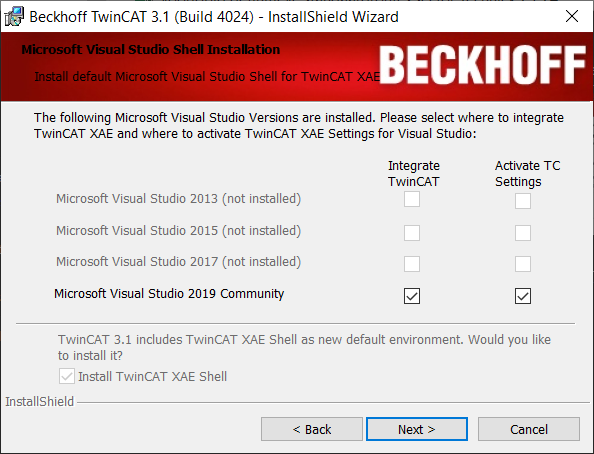
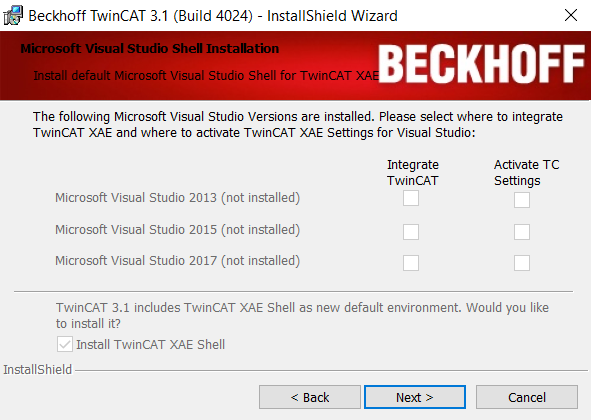
modify step 5

diff --git a/src/step_5.md b/src/step_5.md
@@ -1,4 +1,4 @@
-# integrate into MSVC 2019
+# Do not integrate into MSVC 20xx
 ![Step 5](./step_5.png)
 
-If the option is available to you, you can decide to not install `TwinCAT XAE Shell`. `XAE Shell` has been built on MSVS 2019 so you'll have pretty much the same user experience. I feel MSVS with integration is a bit faster during startup. YMMV.
+Make sure to install `TwinCAT XAE Shell`. If you know wat you are doing you can integrate TwinCAT in a Microsoft Visual Studio installation so you'll have pretty much the same user experience.
